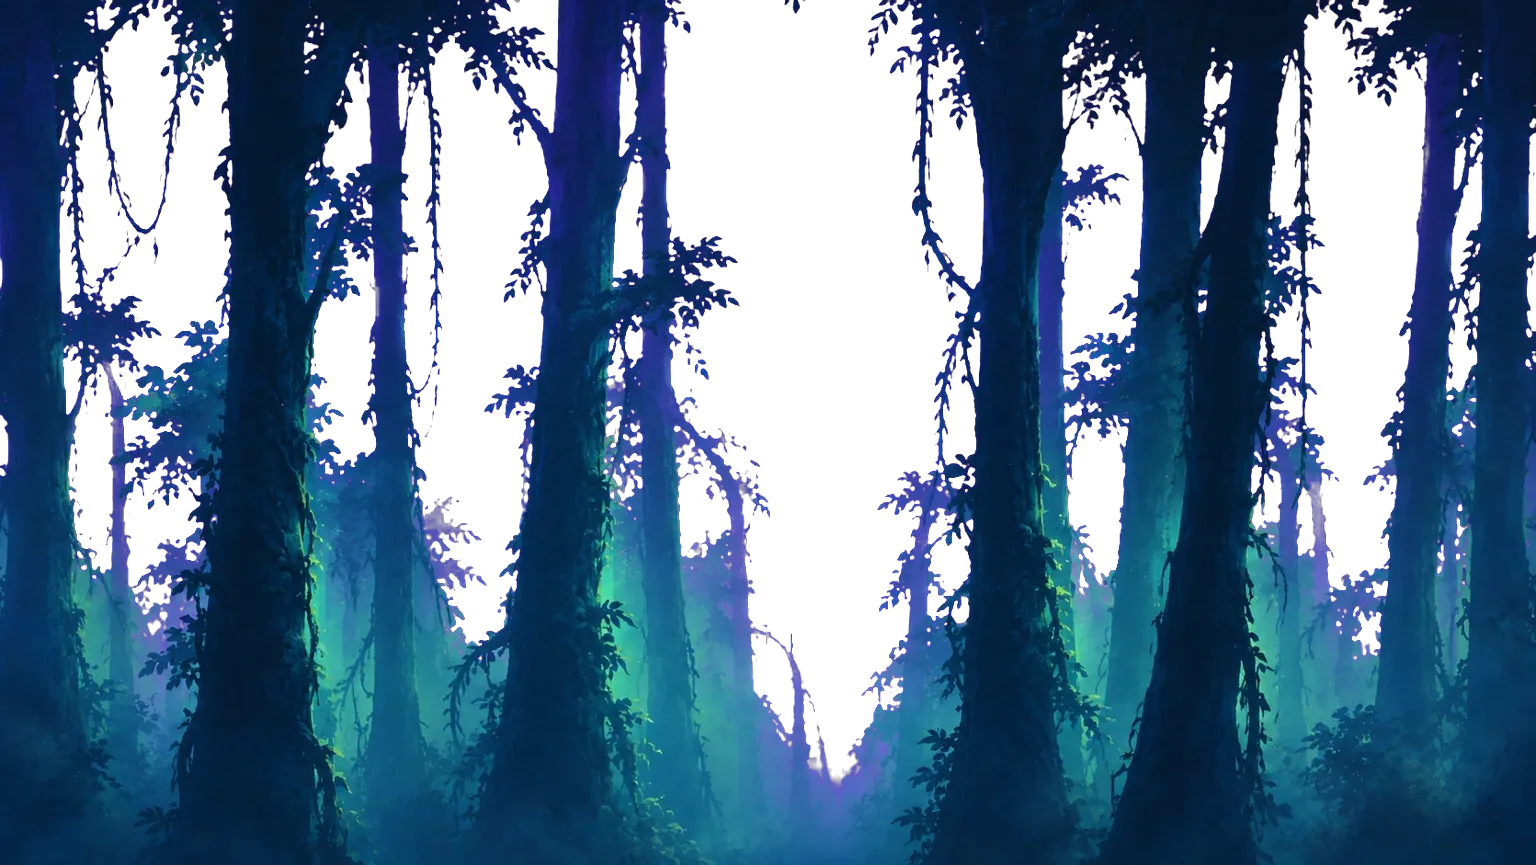
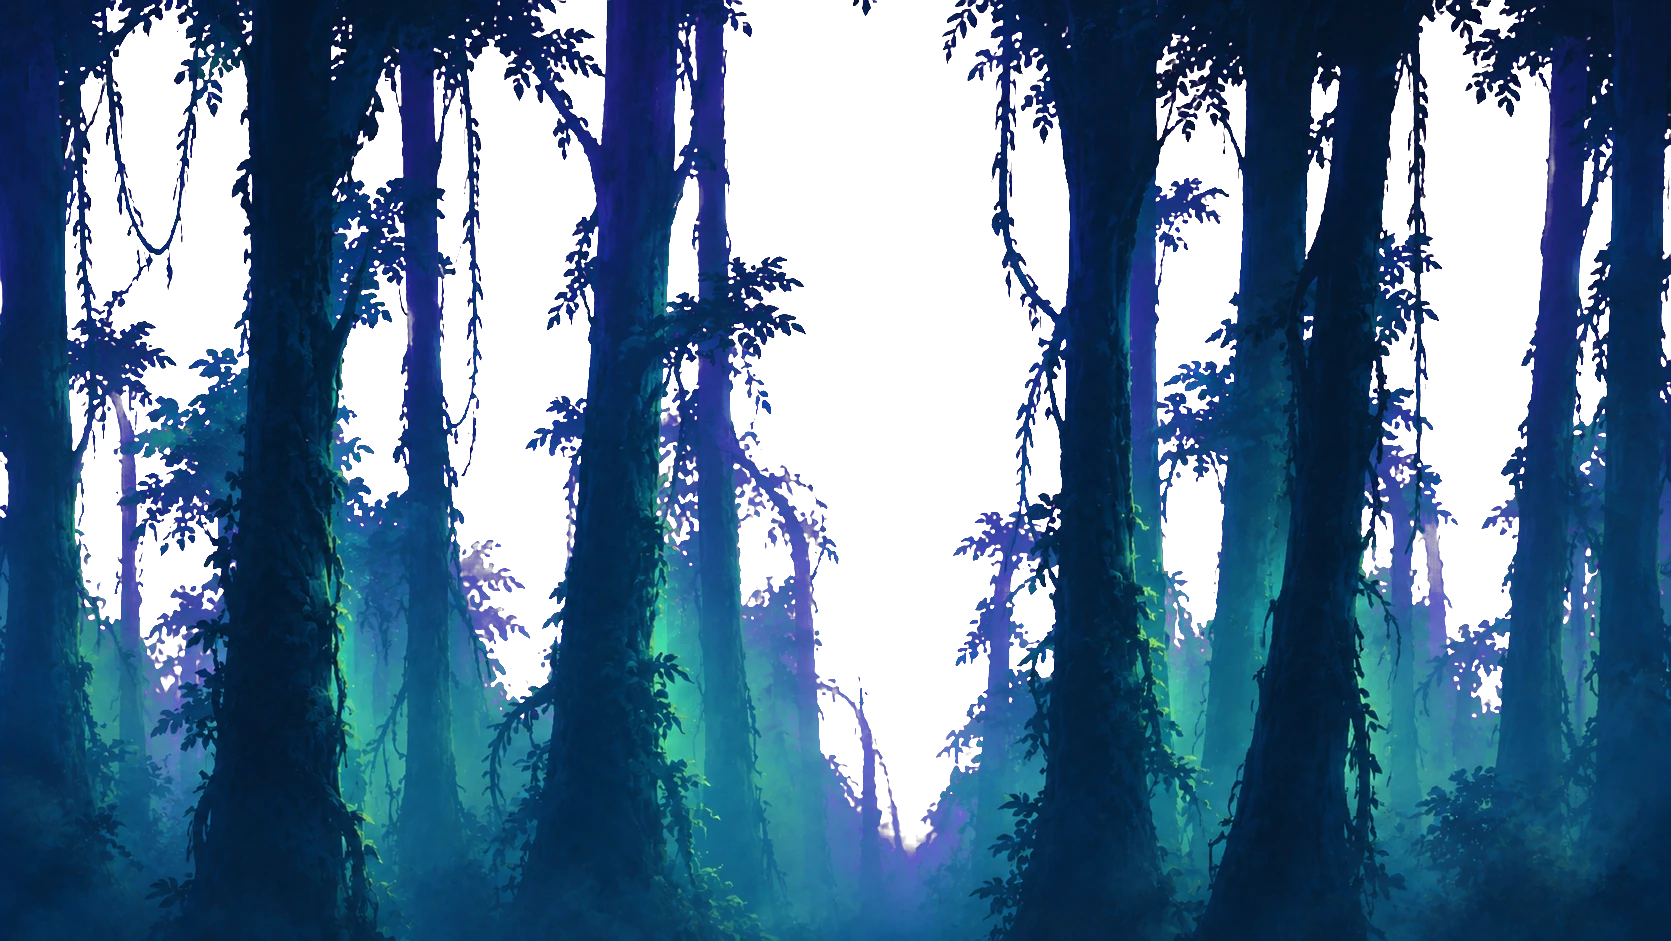
Put the art in: four places, the Wick, and a sixty-step clock
Twenty-eight paintings processed and wired up. The Hollow, the Drowned Steps,
the Ashen Reach and the Undergrove are each a full set of bands and ledges, and
a run picks one from its seed. The Glasswood is defined but held out of the
rotation: it has its ledges and its middle distance but no sky, far or near
band, and a place missing three of its six paintings looks unmade rather than
sparse.

The player is the Wick at last. The pose lookup was still asking for the fox
that the brief replaced, so the lantern-moth was sitting in the folder while a
white blob ran around on screen.

The three poses are held to one size and one ground line. They came back
filling 0.64, 0.67 and 0.71 of their own frames, and since a sprite is drawn at
a fixed height that is an eleven percent jump in the creature every time it
starts running. They are now 0.678 and 0.879 to three places, all three.

The simulation is locked to sixty steps a second and drawn once per step. It
used to advance by however long the last frame took, which quietly made it a
different game on different hardware — on a 144Hz monitor the physics ran 144
times a second in smaller slices and the jump cut, the dash timer and the
accumulated float error all landed elsewhere. Now the same input gives the same
run anywhere, and a faster display banks the spare time instead of drawing
frames that show the same thing.

Smaller things: the filenames the generator chose are mapped to slots rather
[…]

diff --git a/src/Game.tsx b/src/Game.tsx
@@ -49,6 +49,11 @@ const VIEW = 26
 const TRAIL = 110
 const SPARKS = 150
 
+/** Sixty simulation steps a second, on every machine. */
+const STEP = 1 / 60
+/** The most time a single frame may pay back, so a stall cannot cascade. */
+const MAX_CATCH_UP = 0.25
+
 export type Outcome = { won: boolean; embers: number; lit: number; reach: number; score: number }
 
 type Particle = { x: number; y: number; vx: number; vy: number; life: number; max: number; hue: number }
@@ -160,6 +165,7 @@ export default function Game({
     let stopped = false
     let frame = 0
     let last = 0
+    let banked = 0
 
     const level: Level = generateLevel(seed)
     const scenery = makeScenery(seed, level.length)
@@ -548,9 +554,10 @@ export default function Game({
           ctx!.restore()
         } else {
           const grad = ctx!.createLinearGradient(0, y - tile * 0.18, 0, y + tile * 0.5)
-          grad.addColorStop(0, 'rgba(120, 255, 205, 0.85)')
-          grad.addColorStop(0.35, 'rgba(46, 160, 140, 0.5)')
-          grad.addColorStop(1, 'rgba(10, 40, 45, 0)')
+          const lit = level.biome.lip
+          grad.addColorStop(0, `rgba(${lit}, 0.6)`)
+          grad.addColorStop(0.35, `rgba(${lit}, 0.26)`)
+          grad.addColorStop(1, `rgba(${lit}, 0)`)
           ctx!.fillStyle = grad
           ctx!.fillRect(x, y - tile * 0.18, lw, tile * 0.7)
         }
@@ -587,8 +594,9 @@ export default function Game({
         const img = art('ember')
         glow(ctx!, x, y, tile * 1.1, '255, 186, 90', 0.5)
         if (painted(img)) {
-          const s = tile * 0.7
-          ctx!.drawImage(img, x - s / 2, y - s / 2, s, s)
+          const eh = tile * 0.8
+          const ew = eh * (img.naturalWidth / img.naturalHeight)
+          ctx!.drawImage(img, x - ew / 2, y - eh / 2, ew, eh)
         } else {
           ctx!.fillStyle = '#ffd089'
           ctx!.beginPath()
@@ -691,7 +699,7 @@ export default function Game({
         glow(ctx!, x, y, tile * 2.4, '160, 255, 230', 0.45)
 
         const moving = Math.abs(vx) > 1.5
-        const pose = art(!grounded ? 'spirit-jump' : moving ? 'spirit-run' : 'spirit-idle')
+        const pose = art(!grounded ? 'wick-leap' : moving ? 'wick-run' : 'wick-idle')
         if (painted(pose)) {
           const ph = tile * 1.5 * (1 + stretch)
           const pw = ph * (pose.naturalWidth / pose.naturalHeight) * (1 - stretch)
@@ -731,15 +739,40 @@ export default function Game({
       ctx!.fillRect(0, 0, w, h)
     }
 
+    /*
+     * Locked to sixty steps a second, and drawn once per step.
+     *
+     * The loop used to advance by however long the last frame took, which
+     * quietly made the game a different game on different hardware: on a 144Hz
+     * monitor it ran the physics 144 times a second in smaller slices, and
+     * floating-point error, the jump-cut and the dash timers all landed
+     * differently than they did at 60. A fixed step removes the question — the
+     * same input produces the same run on any machine, which also leaves the
+     * door open to two people running the same seed.
+     *
+     * Drawing only when a step has happened is what caps the frame rate: on a
+     * faster display the extra callbacks bank time and return without
+     * rendering, instead of burning a GPU on frames showing the same thing.
+     */
     function loop(now: number) {
       if (stopped) return
-      const dt = Math.min(0.033, last ? (now - last) / 1000 : 0)
-      last = now
-      // Paused still draws, so the scene sits behind the menu rather than
-      // freezing to black, but nothing moves on.
-      if (!pausedRef.current) step(dt)
-      draw(now)
       frame = requestAnimationFrame(loop)
+
+      const elapsed = last ? (now - last) / 1000 : 0
+      last = now
+      // Capped, so a long stall (an alt-tab, a slow first frame) is dropped
+      // rather than paid back as a burst of catch-up steps.
+      banked = Math.min(banked + elapsed, MAX_CATCH_UP)
+
+      let stepped = false
+      while (banked >= STEP) {
+        // Paused still ticks the clock and still draws, so the scene sits
+        // behind the menu rather than freezing to black; it just does not move.
+        if (!pausedRef.current) step(STEP)
+        banked -= STEP
+        stepped = true
+      }
+      if (stepped) draw(now)
     }
 
     const unlisten = listen()

diff --git a/src/level.ts b/src/level.ts
@@ -42,8 +42,11 @@ export type Biome = {
   far: string | null
   mid: string | null
   near: string | null
-  ledgeTop: string
-  ledgeBody: string
+  ledgeTop: string | null
+  ledgeBody: string | null
+  /** The light this place is lit by, as "r, g, b" — used wherever the
+   *  renderer has to draw its own glow rather than show a painting. */
+  lip: string
 }
 
 export const BIOMES: Biome[] = [
@@ -55,17 +58,57 @@ export const BIOMES: Biome[] = [
     near: 'fronds-near',
     ledgeTop: 'ledge-top',
     ledgeBody: 'ledge-body',
+    lip: '120, 255, 205',
   },
   {
     name: 'The Drowned Steps',
     sky: 'drowned-sky',
     far: 'drowned-far',
-    mid: null,
+    mid: 'drowned-mid',
     near: 'drowned-near',
-    ledgeTop: 'ledge-top',
-    ledgeBody: 'ledge-body',
+    ledgeTop: 'drowned-top',
+    ledgeBody: 'drowned-body',
+    lip: '150, 225, 235',
+  },
+  {
+    name: 'The Ashen Reach',
+    sky: 'ash-sky',
+    far: 'ash-far',
+    mid: 'ash-mid',
+    near: 'ash-near',
+    // Nothing painted for the lip here yet, so it falls back to a glow in the
+    // colour of the place rather than the forest's green.
+    ledgeTop: null,
+    ledgeBody: 'ash-body',
+    lip: '255, 150, 70',
+  },
+  {
+    name: 'The Undergrove',
+    sky: 'under-sky',
+    far: 'under-far',
+    mid: 'under-mid',
+    near: 'under-near',
+    ledgeTop: 'under-top',
+    ledgeBody: 'under-body',
+    lip: '255, 215, 110',
   },
 ]
+
+/*
+ * The Glasswood has its ledges and its middle distance but no sky, far or near
+ * band yet, and a place with three of its six paintings missing looks unmade
+ * rather than sparse. It stays out of the rotation until the rest of it exists.
+ */
+export const GLASSWOOD: Biome = {
+  name: 'The Glasswood',
+  sky: null,
+  far: null,
+  mid: 'glass-mid',
+  near: null,
+  ledgeTop: 'glass-top',
+  ledgeBody: 'glass-body',
+  lip: '190, 220, 255',
+}
 
 export type Level = {
   biome: Biome

diff --git a/scripts/key-assets.py b/scripts/key-assets.py
@@ -32,44 +32,135 @@ OUT = os.path.join(HERE, "public", "game")
 # name -> (key the background out?, crop as (top, bottom) or (top, bottom, left, right)
 #          in 0..1, final width)
 PLAN = {
-    "sky":          (False, None,         2560),
-    "hills-far":    (True,  None,         2560),
-    "forest-mid":   (True,  None,         2560),
-    "fronds-near":  (True,  None,         2560),
-    # Biome 2, the Drowned Steps. A biome brings its own bands; any it does not
-    # have falls back to the shapes the game draws for itself.
-    "drowned-sky":  (False, None,         2560),
-    "drowned-far":  (True,  None,         2560),
-    "drowned-near": (True,  None,         2560),
-    "ledge-body":   (False, None,         1024),
-    # Generated as a whole slab sitting in the middle of the frame: moss along
-    # the top, rock under it, vines trailing off the underside. The vertical
-    # crop keeps all three and drops the empty sky and the dead space below the
-    # longest vine. The horizontal crop throws away the rounded ends, which are
-    # where the slab stops being a slab — tile those and you get a row of bumps
-    # instead of a ledge.
-    "ledge-top":    (True,  (0.17, 0.92, 0.10, 0.90), 1024),
-    # The pooled dark that replaced the thorns. Painted along the bottom of a
-    # landscape frame, so only that strip is wanted.
-    "gloom":        (True,  (0.58, 1.00), 1024),
-    "wick-idle":    (True,  None,         768),
-    "wick-run":     (True,  None,         768),
-    "wick-leap":    (True,  None,         768),
-    "ember":        (True,  None,         384),
-    "wick-stone-dark": (True, None,       768),
-    "wick-stone-lit":  (True, None,       768),
+    # ---- The Hollow, a bioluminescent night forest -----------------------
+    "sky":              (False, None,                     2560),
+    "hills-far":        (True,  None,                     2560),
+    "forest-mid":       (True,  None,                     2560),
+    "fronds-near":      (True,  None,                     2560),
+    "ledge-top":        (True,  (0.17, 0.92, 0.10, 0.90), 1024),
+    "ledge-body":       (False, None,                     1024),
+
+    # ---- The Drowned Steps, a flooded ruin -------------------------------
+    "drowned-sky":      (False, None,                     2560),
+    "drowned-far":      (True,  None,                     2560),
+    "drowned-mid":      (True,  None,                     2560),
+    "drowned-near":     (True,  None,                     2560),
+    "drowned-top":      (True,  (0.12, 0.62, 0.06, 0.94), 1024),
+    "drowned-body":     (False, None,                     1024),
+
+    # ---- The Ashen Reach, a forest that burned ---------------------------
+    "ash-sky":          (False, None,                     2560),
+    "ash-far":          (True,  None,                     2560),
+    "ash-mid":          (True,  None,                     2560),
+    "ash-near":         (True,  None,                     2560),
+    "ash-body":         (False, None,                     1024),
+
+    # ---- The Glasswood, a forest turned to crystal -----------------------
+    "glass-mid":        (True,  None,                     2560),
+    "glass-top":        (True,  (0.22, 0.88, 0.06, 0.94), 1024),
+    "glass-body":       (False, None,                     1024),
+
+    # ---- The Undergrove, a cavern lit by what grows in it ----------------
+    "under-sky":        (False, None,                     2560),
+    "under-far":        (True,  None,                     2560),
+    "under-mid":        (True,  None,                     2560),
+    "under-near":       (True,  None,                     2560),
+    "under-top":        (True,  (0.22, 0.90, 0.06, 0.94), 1024),
+    "under-body":       (False, None,                     1024),
+
+    # ---- The Wick, and what the world does to it -------------------------
+    "wick-idle":        (True,  None,                     768),
+    "wick-run":         (True,  None,                     768),
+    "wick-leap":        (True,  None,                     768),
+    "ember":            (True,  None,                     384),
+    "gloom":            (True,  (0.42, 1.00),             1024),
+    "wick-stone-dark":  (True,  None,                     768),
+    "wick-stone-lit":   (True,  None,                     768),
 }
 
-# Cropped to their content. Everything else keeps the frame it was painted in.
+# What each slot is actually called in the folder the art arrived in.
 #
-# A character pose must NOT be in here. The game draws a sprite at a fixed
-# height, so cropping each pose to its own content makes the creature's size
-# depend on how much of its frame that pose happened to fill — a short wide
-# running pose gets blown up to match a tall narrow standing one, and the
-# character changes size the moment it starts moving. The empty margin around a
-# pose is load-bearing: it is what holds the poses to a common scale and a
-# common ground line.
+# The generator names its own files, and renaming fifty of them by hand is both
+# dull and a place to make a silent mistake. Mapping them here instead keeps the
+# original folder exactly as it was delivered, so it stays obvious which
+# painting is which when one needs regenerating.
+ALIASES = {
+    "forest-mid":      "ChatGPT Image Oct 8, 2026, 12_45_36 PM",
+    "fronds-near":     "Enchanted Bioluminescent Forest Clearing",
+    "ledge-top":       "Bioluminescent Mossy Cliff Ledge",
+    "ledge-body":      "Mossy Moonlit Stone Wall",
+
+    "drowned-sky":     "Misty Ruins Beneath Stormlight",
+    "drowned-far":     "Ruined Arches Over Neon Waters",
+    "drowned-mid":     "Floating Ruins in a Magenta Sky",
+    "drowned-near":    "Ruined Ivy Gate on Magenta Ground",
+    "drowned-top":     "Moss-Covered Ruined Stone Platform",
+    "drowned-body":    "Wet Mossy Ruined Stone Wall Texture",
+
+    "ash-sky":         "Ashstorm Over Ruined Volcanic Realms",
+    "ash-far":         "Charred Ruins Against Magenta Skies",
+    "ash-mid":         "Charred Ruins Framing Magenta Space",
+    "ash-near":        "Charred Wasteland Framing Magenta Void",
+    "ash-body":        "Charred Volcanic Wood with Molten Fissures",
+
+    "glass-mid":       "Magenta Sky Crystal Ruins",
+    "glass-top":       "Magenta-Backdrop Ancient Crystal Platform",
+    "glass-body":      "Glowing Crystal Cliff with Vines",
+
+    "under-sky":       "Bioluminescent Mushroom Cavern Ceiling",
+    "under-far":       "Bioluminescent Mushroom Cavern Valley",
+    "under-mid":       "Bioluminescent Mushroom Forest on Magenta",
+    "under-near":      "Enchanted Mushroom Cave Border",
+    "under-top":       "Bioluminescent Mushroom Forest Ledge",
+    "under-body":      "Bioluminescent Fungal Rootwall Texture",
+
+    "wick-idle":       "Glowing Steampunk Lantern Moth",
+    "wick-run":        "Steampunk Lantern Moth in Motion",
+    "wick-leap":       "Steampunk Moth Lantern in Flight",
+    "ember":           "Golden Flame Spirit on Magenta",
+    "gloom":           "Shadow Slime Smoke Hazard",
+    "wick-stone-dark": "Moss-Covered Fantasy Stone Shrine",
+    "wick-stone-lit":  "Enchanted Flame Stone Altar",
+}
+
 TRIM = {"ember"}
+
+# Poses of the one creature, held to a common size and a common ground line.
+POSES = {"wick-idle", "wick-run", "wick-leap"}
+# The fraction of the frame the creature fills, and where its feet sit.
+POSE_HEIGHT = 0.68
+POSE_BASE = 0.88
+
+
+def normalise_pose(img):
+    """
+    Puts a pose at the same scale and the same ground line as its siblings.
+
+    The game draws a sprite at a fixed height, so the creature's size on screen
+    is decided by how much of its own frame that pose happens to fill. Three
+    poses framed by eye came back filling 0.64, 0.67 and 0.71 of their frames,
+    which is an eleven percent jump in the creature's size every time it starts
+    running. Rescaling each one so the body is the same fraction of the frame,
+    and sliding it so the feet land on one line, is the difference between a
+    character that moves and a character that also inflates.
+    """
+    alpha = np.asarray(img)[..., 3]
+    rows = np.where(alpha.max(axis=1) > 40)[0]
+    cols = np.where(alpha.max(axis=0) > 40)[0]
+    if not len(rows) or not len(cols):
+        return img
+
+    top, bottom = int(rows[0]), int(rows[-1])
+    left, right = int(cols[0]), int(cols[-1])
+    body = img.crop((left, top, right + 1, bottom + 1))
+
+    scale = (POSE_HEIGHT * img.height) / body.height
+    body = resize_rgba(body, max(1, round(body.width * scale)))
+
+    out = Image.new("RGBA", img.size, (0, 0, 0, 0))
+    out.paste(body, (round((img.width - body.width) / 2),
+                     round(POSE_BASE * img.height - body.height)))
+    return out
 
 
 def key_magenta(img, cutoff=50):
@@ -201,10 +292,13 @@ def main():
     done, missing = [], []
     for name, (needs_key, band, width) in PLAN.items():
         src = None
-        for ext in (".png", ".jpg", ".jpeg", ".webp"):
-            candidate = os.path.join(RAW, name + ext)
-            if os.path.exists(candidate):
-                src = candidate
+        for stem in (name, ALIASES.get(name, name)):
+            for ext in (".png", ".jpg", ".jpeg", ".webp"):
+                candidate = os.path.join(RAW, stem + ext)
+                if os.path.exists(candidate):
+                    src = candidate
+                    break
+            if src:
                 break
         if not src:
             missing.append(name)
@@ -223,6 +317,8 @@ def main():
             img = key_magenta(img)
             if name in TRIM:
                 img = trim(img)
+            if name in POSES:
+                img = normalise_pose(img)
 
         if img.width > width:
             img = resize_rgba(img, width)
